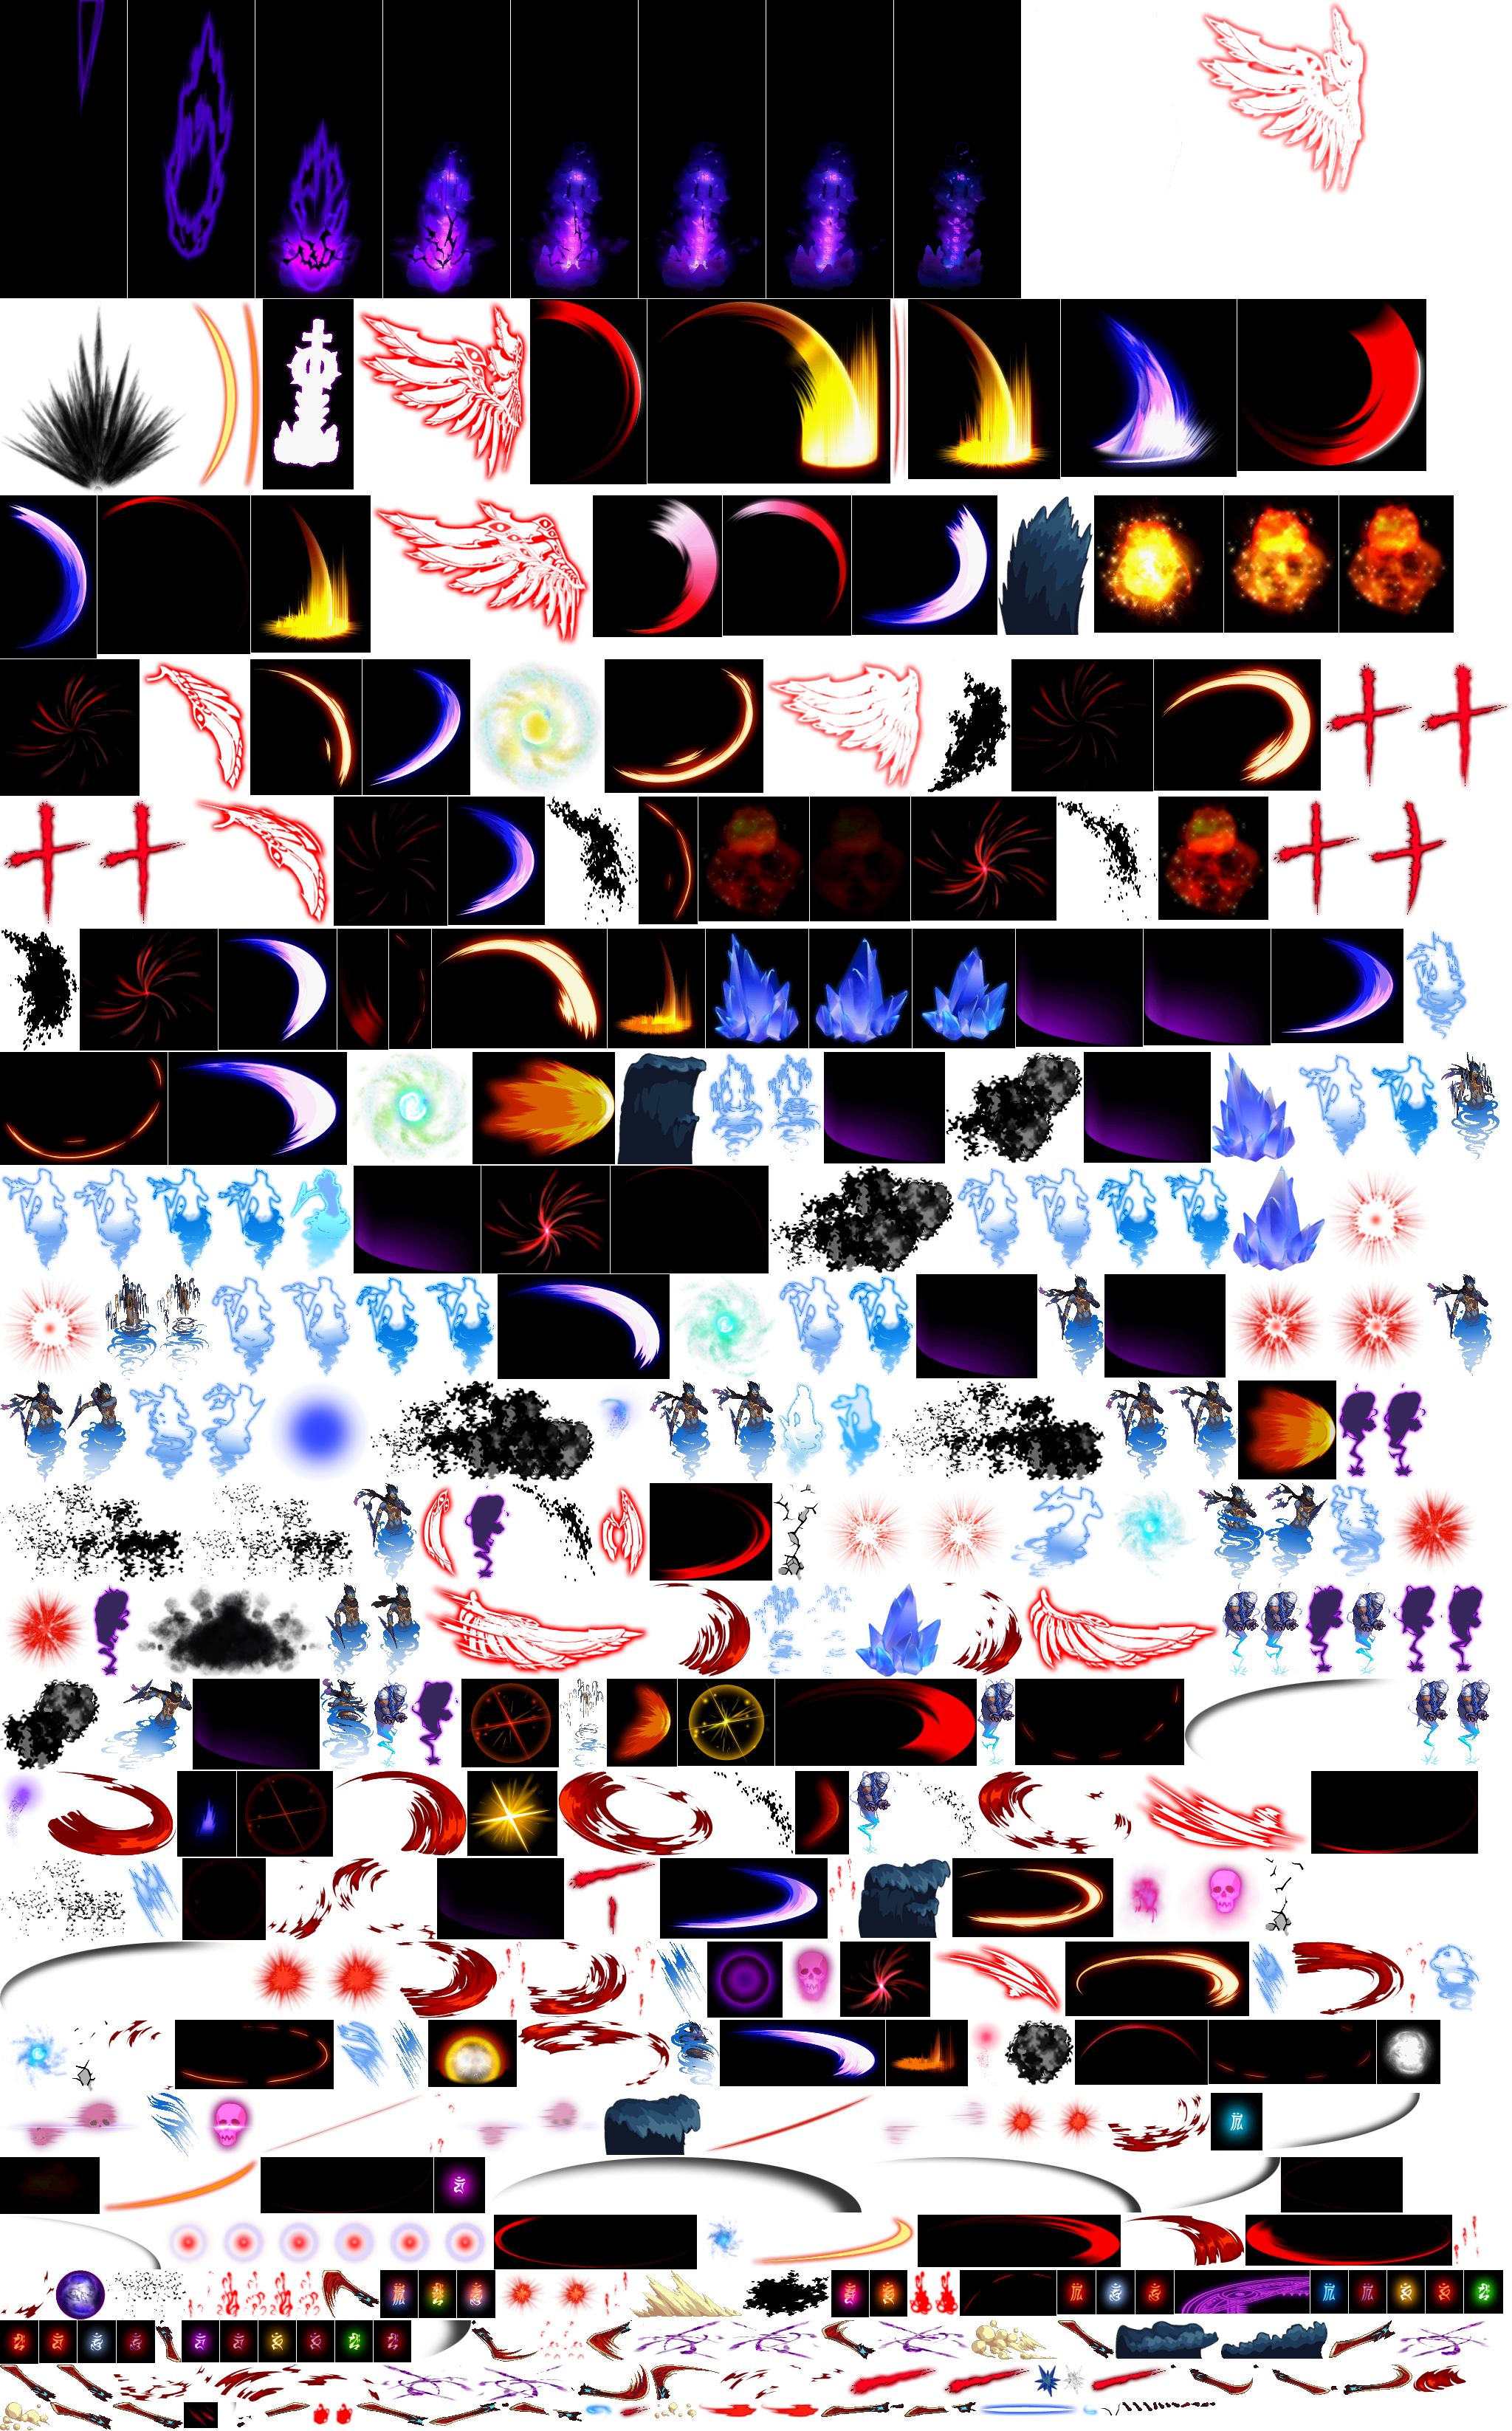
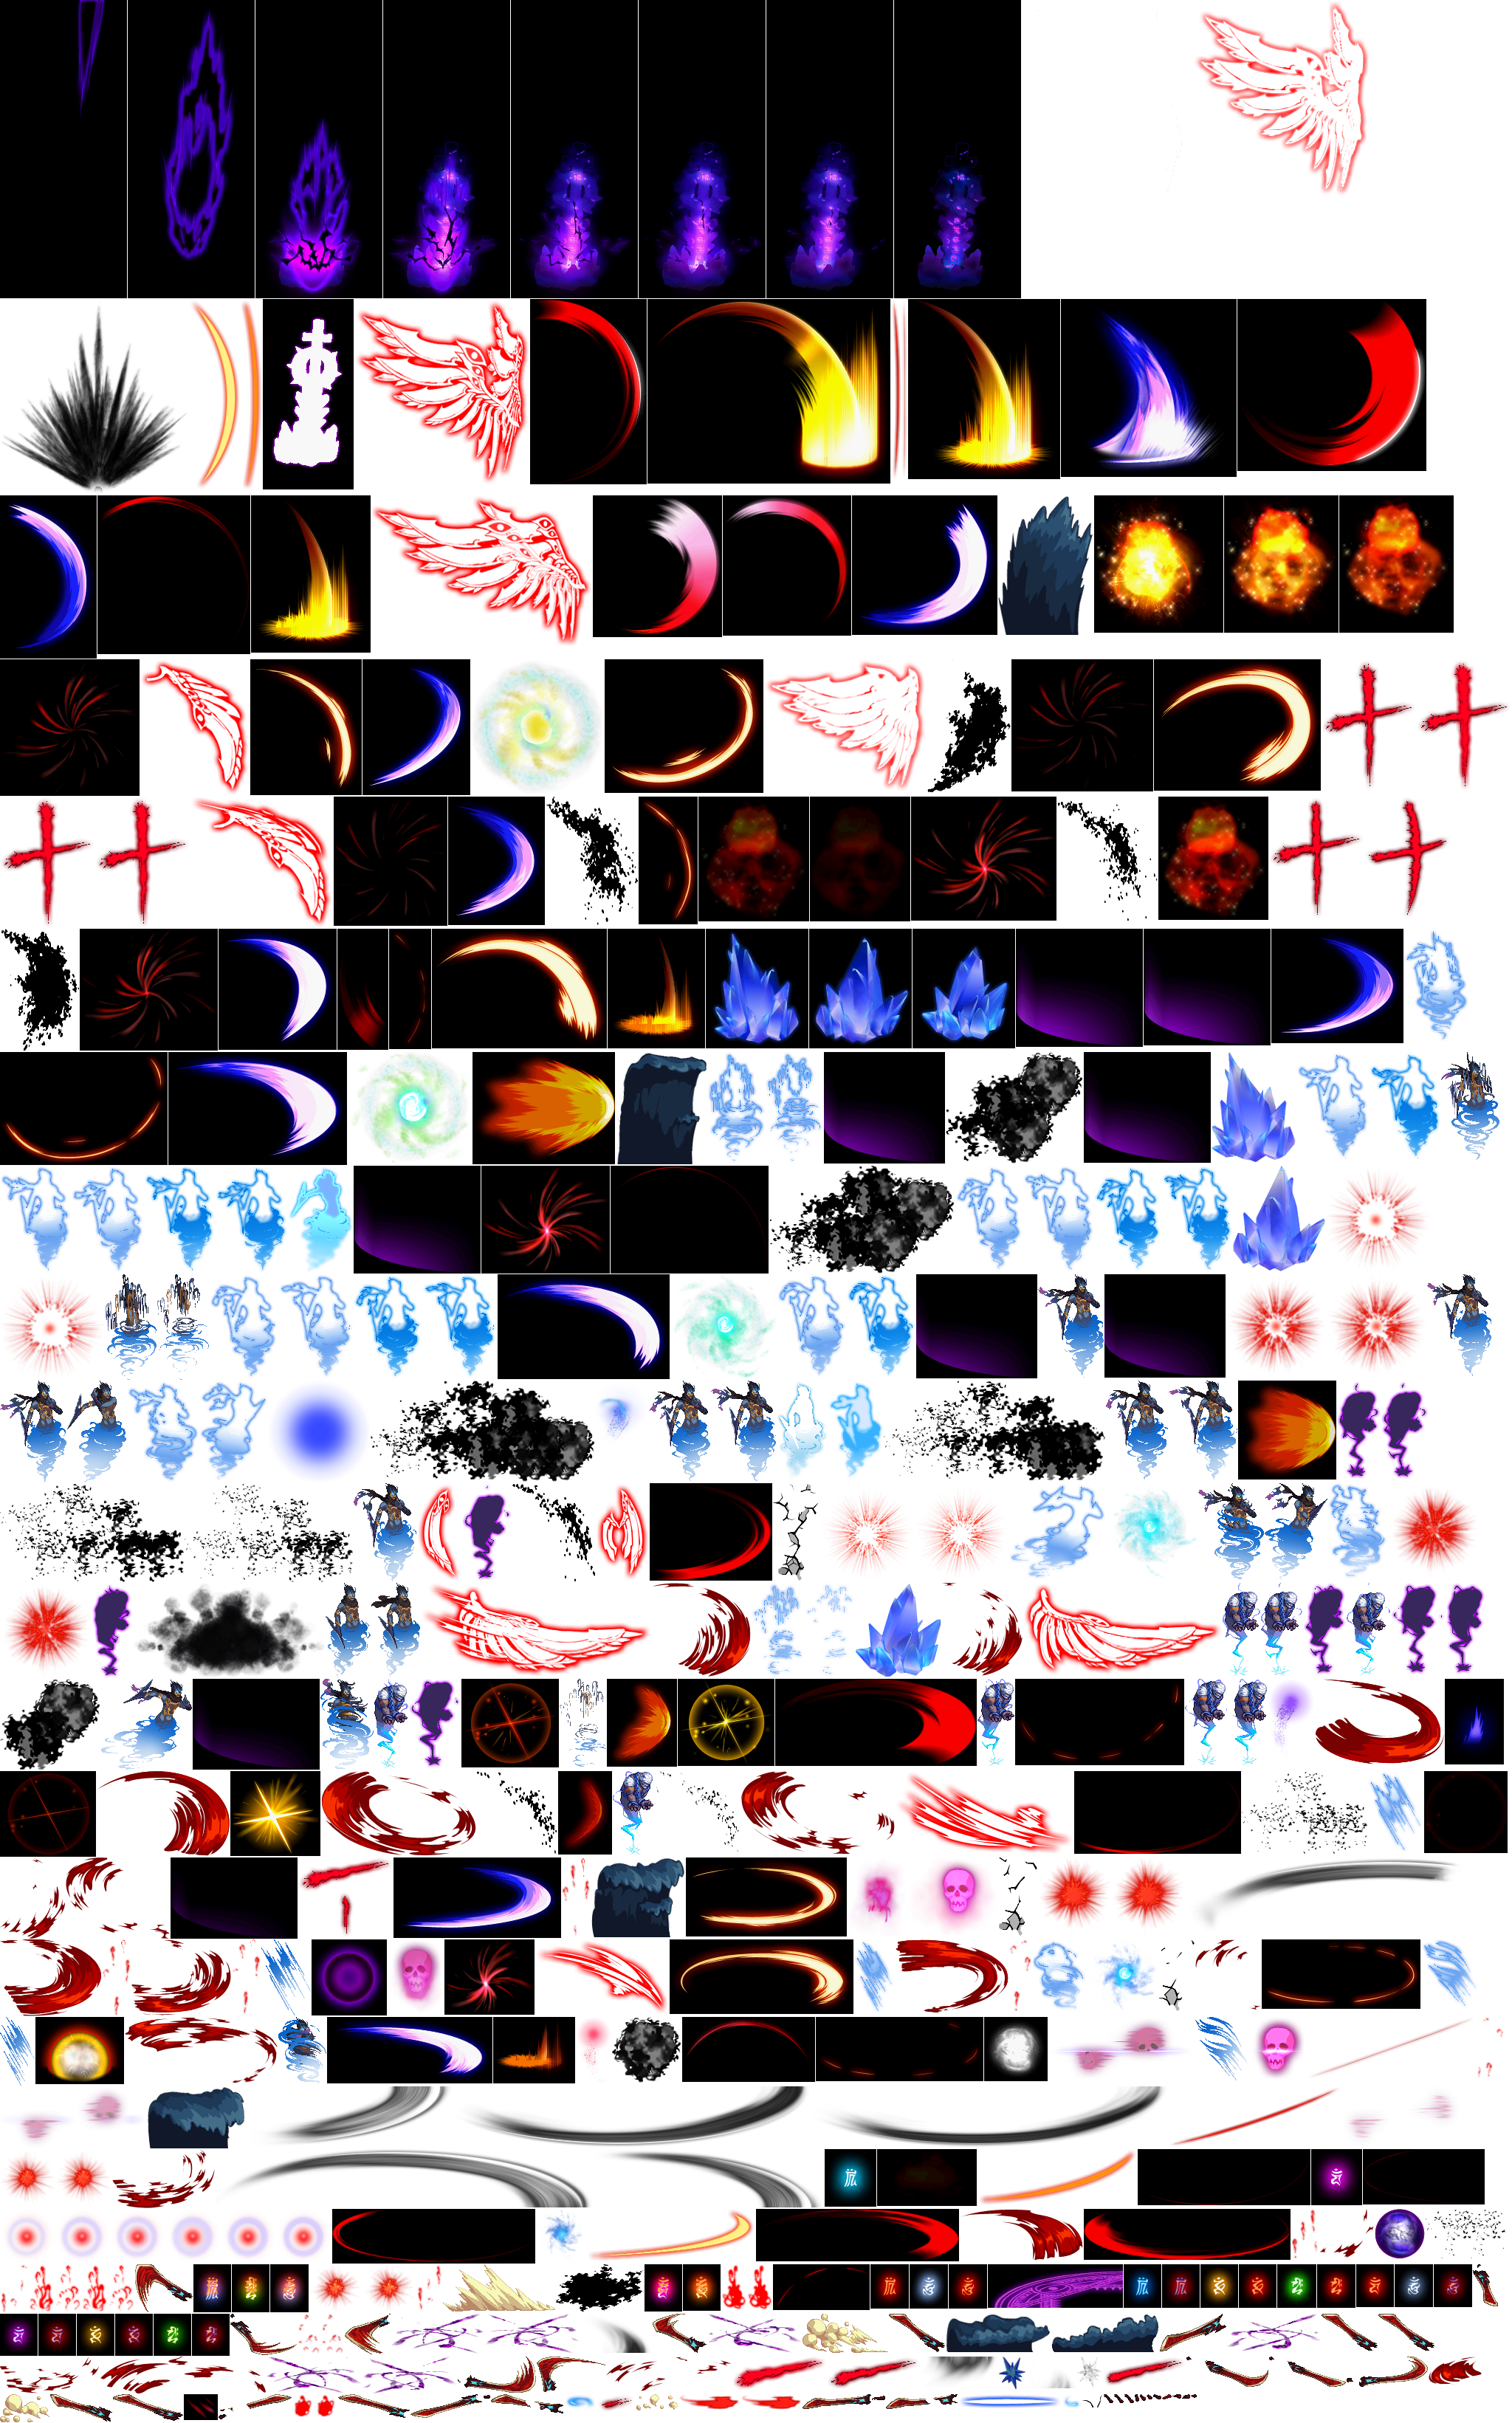
fix: use visible DOF flashcut effect assets

diff --git a/assets/skillfx.meta.js b/assets/skillfx.meta.js
@@ -1,1 +1,1 @@
-window.SKILLFX_META={"clips":{"tripleslash":[{"anchor":[-103,-126],"fps":20,"frames":[[1443,2630,249,101,0,0],[1290,2517,218,107,34,4],[237,2736,215,94,28,9],[1637,2736,227,87,16,15]]},{"anchor":[-96,-162],"fps":20,"frames":[[1563,893,226,178,7,0],[819,893,215,181,19,15],[0,1425,227,153,1,38],[1375,2274,229,117,0,74]]},{"anchor":[-84,-155],"fps":20,"frames":[[585,1258,237,162,0,0],[339,893,151,184,87,2],[865,1079,80,173,153,22],[527,1258,57,163,175,37]]}],"flashcut":[{"anchor":[0,0],"fps":16,"frames":[[1605,2274,301,117,33,163],[0,2630,335,105,33,163],[658,2922,509,75,33,163],[1168,2922,378,75,164,163],[0,3000,218,74,324,164]]},{"anchor":[0,0],"fps":16,"frames":[[1647,3254,1,1,600,0],[296,3254,24,34,518,238],[558,3143,80,56,462,238],[1547,2922,187,75,355,238],[1711,2835,212,77,330,238]]}],"gorecross":[{"anchor":[-164,-218],"fps":20,"frames":[[1649,3254,1,1,480,0],[1014,3000,228,71,34,91],[136,2922,216,76,65,97],[951,2835,235,82,70,102],[349,2835,230,84,73,109],[256,405,69,259,170,7],[326,405,29,259,212,7],[1207,405,13,246,225,14],[1221,405,8,245,230,15]]},{"anchor":[-164,-218],"fps":20,"frames":[[834,3254,52,24,248,112],[1473,3203,112,41,189,112],[1274,3203,126,45,175,112],[1146,3203,127,46,174,112],[765,2517,128,109,173,112],[1719,1079,128,166,173,63],[1790,893,128,178,173,55],[1919,893,128,178,173,56],[0,1079,128,178,173,56],[129,1079,128,178,173,56],[1848,1079,117,166,179,61]]}],"frenzy":[{"anchor":[256,0],"fps":12,"frames":[[1796,1579,142,143,3,0],[1661,1726,135,138,3,3],[1880,2009,124,129,10,10],[336,2630,99,105,22,22],[1348,2835,75,80,33,33],[672,3075,72,64,35,40],[944,3254,83,21,49,80],[1110,2009,127,131,60,13],[421,3254,30,32,116,60],[1230,3075,34,62,111,34],[292,3075,35,65,111,29],[328,3075,35,65,112,19],[730,3143,31,55,117,17]]},{"anchor":[256,0],"fps":20,"frames":[[0,1726,142,143,3,0],[1797,1726,135,138,3,3],[0,2144,124,129,10,10],[436,2630,99,105,22,22],[1424,2835,75,80,33,33],[745,3075,72,64,35,40],[1028,3254,83,21,49,80],[1238,2009,127,131,60,13],[452,3254,30,32,116,60],[1265,3075,34,62,111,34],[364,3075,35,65,111,29],[400,3075,35,65,112,19],[762,3143,31,55,117,17]]},{"anchor":[0,-232],"fps":17,"frames":[[1800,3143,90,51,124,250],[1112,3254,112,20,97,266],[483,3254,97,32,147,238],[1651,3254,1,1,500,0],[1653,3254,1,1,500,0],[1655,3254,1,1,500,0],[321,3254,99,34,210,250],[1657,3254,1,1,500,0],[881,3203,93,48,232,213],[1113,3143,73,53,165,215],[68,3254,84,37,147,235],[1578,3254,8,7,271,259],[1638,3254,8,5,263,254],[774,3203,106,49,249,241],[1586,3203,111,41,220,261],[1698,3203,104,41,220,261],[690,3254,98,26,161,214],[1225,3254,97,20,145,213],[794,3143,62,55,189,257],[436,3075,78,65,185,206],[77,3203,76,50,187,206],[77,3203,76,50,187,206]]},{"anchor":[0,-232],"fps":17,"frames":[[1659,3254,1,1,500,0],[1661,3254,1,1,500,0],[1663,3254,1,1,500,0],[1803,3203,110,41,232,263],[639,3143,90,56,203,277],[211,3143,34,57,196,276],[1665,3254,1,1,500,0],[581,3254,108,32,174,262],[1562,3254,6,10,252,266],[1569,3254,8,9,236,266],[1587,3254,11,7,236,265],[1433,3143,76,52,199,204],[153,3254,95,36,166,216],[1667,3254,1,1,500,0],[1669,3254,1,1,500,0],[1671,3254,1,1,500,0],[1613,3254,12,6,259,237],[1626,3254,11,6,245,219],[1599,3254,13,7,251,254],[1548,3254,13,12,254,256],[1548,3254,13,12,254,256],[1548,3254,13,12,254,256]]},{"anchor":[-92,-160],"fps":17,"frames":[[1519,3000,167,70,38,62],[536,2630,137,104,66,63],[714,2630,135,103,66,64],[1500,2835,139,80,61,83],[154,3203,135,50,62,113],[1914,3203,72,39,28,88],[1749,2630,153,100,91,40],[701,2736,207,90,27,40],[290,3203,224,50,7,42],[975,3203,170,47,7,46],[452,2399,180,115,48,8],[883,2144,134,127,93,8],[1276,2144,109,126,116,9],[361,2517,88,110,135,22],[0,3075,74,67,149,63],[65,2399,174,116,50,43],[756,2399,210,114,11,41],[1324,2399,209,112,12,42],[450,2517,141,110,16,43],[147,2736,89,96,17,43]]},{"anchor":[2,257],"fps":20,"frames":[[219,3000,74,74,5,0],[294,3000,74,74,5,0],[369,3000,74,74,5,0],[444,3000,74,74,5,0],[519,3000,74,74,5,0],[594,3000,74,74,5,0]]},{"anchor":[2,257],"fps":10,"frames":[[580,2835,37,84,4,7],[253,3075,38,66,2,21],[818,3075,34,64,2,20],[1968,3000,37,68,1,8],[1122,2517,39,108,1,6],[674,2630,39,104,1,4],[850,2630,39,103,2,4],[1903,2630,30,98,11,1]]}],"ghoststep":[{"anchor":[256,0],"fps":20,"frames":[[1323,3254,140,20,3,3]]},{"anchor":[256,0],"fps":20,"frames":[[364,1870,137,137,0,0]]},{"anchor":[256,0],"fps":20,"frames":[[1509,2517,79,107,68,21],[1061,2630,76,102,74,11],[1589,2517,124,107,42,0],[270,2835,78,85,72,1],[0,2835,198,86,13,1],[618,2835,198,84,13,2],[1187,2835,160,82,29,3]]},{"anchor":[256,0],"fps":20,"frames":[[532,2736,47,93,93,73],[890,2630,67,103,71,53],[199,2835,70,86,62,48],[909,2736,65,90,61,36],[434,2274,72,122,59,33],[1623,2009,89,130,40,34],[880,1870,82,136,40,35],[1498,1870,84,134,41,35],[479,2009,85,133,41,35],[1583,1870,93,134,33,35],[963,1870,88,136,35,35],[1933,1726,87,138,36,36],[1406,1726,89,140,35,35],[0,1870,90,138,34,36],[1673,3254,1,1,144,0],[1675,3254,1,1,144,0],[1677,3254,1,1,144,0],[1679,3254,1,1,144,0],[1681,3254,1,1,144,0],[1683,3254,1,1,144,0],[1685,3254,1,1,144,0],[1687,3254,1,1,144,0],[91,1870,80,138,44,33],[441,2144,61,128,64,37],[503,2144,66,128,56,40],[1713,2009,85,130,46,39],[137,2274,123,123,4,39],[1952,1425,79,146,48,24],[143,1726,69,143,59,14],[213,1726,70,143,58,12],[758,2274,63,119,57,9],[1689,3254,1,1,144,0]]},{"anchor":[256,0],"fps":20,"frames":[[1693,2630,55,101,89,69],[171,2517,75,111,67,49],[453,2736,78,94,58,44],[1934,2630,73,98,57,32],[1799,2009,80,130,55,29],[172,1870,97,138,36,30],[1294,1579,90,144,36,31],[284,1726,92,142,37,31],[1053,1726,93,141,37,31],[377,1726,101,142,29,31],[1385,1579,96,144,31,31],[0,1579,95,146,32,32],[1756,1425,97,148,31,31],[96,1579,98,146,30,32],[1482,1579,90,144,36,31],[479,1726,92,142,37,31],[1147,1726,93,141,37,31],[572,1726,101,142,29,31],[1573,1579,96,144,31,31],[195,1579,95,146,32,32],[1854,1425,97,148,31,31],[291,1579,98,146,30,32],[390,1579,88,146,40,29],[1052,1870,69,136,60,33],[1122,1870,74,136,52,36],[270,1870,93,138,42,35],[1366,2009,131,131,0,35],[1902,1258,87,154,44,20],[959,1425,77,151,55,10],[1037,1425,78,151,54,8],[1018,2144,71,127,53,5],[1090,2144,67,127,53,3]]}],"wavespin":[{"anchor":[-76,-75],"fps":12,"frames":[[958,2630,102,103,0,0],[75,3075,68,67,17,18],[1865,2736,86,87,8,7]]},{"anchor":[256,0],"fps":12,"frames":[[1591,3075,183,59,1,1]]},{"anchor":[256,0],"fps":10,"frames":[[592,2517,172,110,1,66],[261,2274,172,123,1,53],[479,1579,172,146,1,30],[1549,1258,172,158,1,18],[1116,1425,164,151,1,25],[1496,1726,164,140,1,36],[1241,1726,164,141,1,35],[1468,1425,172,150,1,26],[1376,1258,172,160,1,16]]},{"anchor":[2,257],"fps":12,"frames":[[1187,3143,128,53,8,5],[515,3203,129,50,7,6],[645,3203,128,50,6,4],[1891,3143,127,51,3,3],[857,3143,126,54,4,4],[984,3143,128,54,5,5]]}],"illusionslash":[{"anchor":[-45,-41],"fps":12,"frames":[[228,1425,242,153,18,67],[1722,1258,179,155,81,71],[975,2736,224,90,40,95],[894,2517,227,109,37,95],[296,1258,160,164,72,56],[491,893,146,184,85,59],[674,1726,233,142,0,66],[607,1079,131,174,103,68],[1154,671,197,189,15,33],[0,671,131,221,81,0]]},{"anchor":[256,0],"fps":12,"frames":[[1437,405,238,241,0,0],[240,2399,80,116,117,126]]}],"chargecrash":[{"anchor":[256,0],"fps":17,"frames":[[452,1079,154,175,22,2],[1370,893,192,179,6,12],[0,893,189,185,0,2],[108,1258,187,165,9,11],[1234,1079,197,168,0,0],[652,1579,174,146,11,10],[1138,2630,122,102,44,38],[633,2399,122,115,43,38],[918,2274,131,118,35,41],[625,2274,132,120,34,40],[321,2399,130,116,35,42],[247,2517,113,111,44,45]]},{"anchor":[256,0],"fps":12,"frames":[[640,1425,193,152,0,0],[1677,1870,133,134,61,4],[822,2274,95,119,106,17],[1077,2399,73,113,133,21]]},{"anchor":[256,0],"fps":10,"frames":[[877,405,329,250,0,0],[1230,405,206,244,145,5],[340,671,162,213,180,36],[823,1258,132,162,198,85],[1200,2736,111,90,217,155]]},{"anchor":[256,0],"fps":17,"frames":[[249,3254,46,35,12,152],[803,671,175,192,17,10],[979,671,174,190,18,0],[1456,2736,180,88,3,1],[1300,3075,131,62,0,3]]},{"anchor":[256,0],"fps":12,"frames":[[853,3075,152,64,4,8],[1316,3143,116,53,36,20],[0,3254,67,38,56,24],[887,3254,56,22,53,28]]}],"waveeye":[{"anchor":[256,0],"fps":20,"frames":[[807,2009,72,132,254,140],[1035,893,219,180,78,109],[1384,0,232,272,68,5],[1617,0,238,266,62,13],[480,405,237,252,60,27],[503,671,299,206,0,74],[1261,2630,181,102,201,135],[258,1079,193,178,254,166],[190,893,148,185,286,177]]},{"anchor":[256,0],"fps":20,"frames":[[565,2009,60,133,232,145],[1691,3254,1,1,529,0],[1693,3254,1,1,529,0],[1695,3254,1,1,529,0],[1697,3254,1,1,529,0],[1699,3254,1,1,529,0],[1534,2399,241,112,79,131],[570,2144,312,128,208,171],[1386,2144,269,126,257,174]]},{"anchor":[-123,-205],"fps":20,"frames":[[1050,2274,273,118,14,84],[880,2009,166,132,121,84],[1776,2399,226,112,61,103],[353,2922,234,76,52,140],[1243,3000,275,71,5,103],[1687,3000,280,69,0,114],[669,3000,275,74,0,110],[1735,2922,165,75,0,108],[457,1258,69,164,34,62],[1676,405,256,233,37,26],[718,405,158,251,134,1],[132,671,207,215,79,1],[827,1579,214,146,71,0]]}],"saya":[{"anchor":[0,0],"fps":16,"frames":[[1438,3203,34,43,59,27]]},{"anchor":[0,0],"fps":16,"frames":[[1401,3203,36,44,58,26]]}],"epidemic":[{"anchor":[0,0],"fps":16,"frames":[[1656,2144,51,126,80,47],[1708,2144,56,126,78,47],[1824,2144,59,125,75,47],[1151,2399,62,113,73,59],[1907,2274,55,117,72,56],[1963,2274,55,117,72,55],[1324,2274,50,118,78,54],[507,2274,46,121,83,51]]},{"anchor":[0,0],"fps":16,"frames":[[1811,1870,59,134,66,43],[1871,1870,64,134,63,43],[626,2009,67,133,62,43],[554,2274,70,121,61,55],[1884,2144,63,125,68,52],[1948,2144,63,125,68,51],[1765,2144,58,126,68,50],[125,2144,54,129,67,47]]}],"tombstone":[{"anchor":[0,0],"fps":16,"frames":[[0,0,172,404,0,0],[173,0,172,404,0,0],[346,0,172,404,0,0],[519,0,172,404,0,0],[692,0,172,404,0,0],[865,0,172,404,0,0],[1038,0,172,404,0,0],[1211,0,172,404,0,0],[356,405,123,258,0,0]]},{"anchor":[0,0],"fps":16,"frames":[[1491,3254,28,19,15,92],[98,2736,48,97,15,21],[1714,2517,52,106,11,12],[1047,2009,62,132,4,0]]},{"anchor":[0,0],"fps":16,"frames":[[0,405,255,265,55,24],[180,2144,260,129,58,213]]}],"icewave":[{"anchor":[0,0],"fps":16,"frames":[[1641,1425,114,149,12,6],[1670,1579,125,144,9,12],[1158,2144,117,127,12,24]]},{"anchor":[0,0],"fps":16,"frames":[[956,1258,139,162,0,0],[1096,1258,139,162,0,0],[1236,1258,139,162,0,0]]}],"firewave":[{"anchor":[0,0],"fps":16,"frames":[[1361,2736,94,89,4,65],[0,2274,136,124,4,29],[1281,1425,186,151,14,3],[1042,1579,251,146,14,8],[502,1870,304,137,17,18],[1197,1870,300,136,17,18],[0,2009,249,134,59,18],[250,2009,228,134,80,18],[0,2517,170,112,138,38],[144,3075,108,67,200,81]]},{"anchor":[0,0],"fps":16,"frames":[[580,2736,120,91,40,62],[1482,671,175,186,23,1],[1658,671,155,186,22,7],[1814,671,155,186,22,4],[1569,1079,149,167,24,2],[946,1079,150,169,23,1],[1097,1079,136,169,33,0],[0,2922,135,77,31,10]]},{"anchor":[0,0],"fps":16,"frames":[[1006,3075,119,64,4,163],[1255,893,114,180,93,31],[0,1258,107,166,115,27],[739,1079,125,174,109,5],[1432,1079,136,168,101,2],[694,2009,112,133,101,9],[967,2399,109,114,101,10],[1214,2399,109,113,100,9]]}],"wavemark":[{"anchor":[0,0],"fps":16,"frames":[[1640,2835,70,78,0,0],[1775,3075,51,59,10,9],[1827,3075,51,59,10,9],[1432,3075,52,60,9,9],[515,3075,51,65,10,3],[588,2922,69,76,0,1],[246,3143,51,57,9,10],[298,3143,51,57,9,10],[53,3143,51,58,9,10],[1126,3075,51,64,9,3],[1879,3075,51,59,9,9],[350,3143,51,57,9,10],[402,3143,51,57,9,10],[1931,3075,51,59,9,9],[1178,3075,51,63,9,4],[1983,3075,53,59,8,10],[454,3143,51,57,9,11],[506,3143,51,57,9,11],[0,3143,52,59,9,10],[567,3075,51,65,9,3],[1485,3075,52,60,9,9],[105,3143,52,58,9,10],[158,3143,52,58,9,10],[1538,3075,52,60,9,9],[619,3075,52,65,9,3]]},{"anchor":[0,0],"fps":16,"frames":[[638,893,180,182,2,1],[471,1425,168,153,3,20],[908,1726,144,142,17,26],[1498,2009,124,131,30,35],[0,2736,97,98,38,48],[945,3000,68,72,56,64],[1312,2736,48,90,63,63],[0,2399,64,117,62,27],[807,1870,72,137,62,5],[789,3254,44,25,64,24],[1464,3254,26,20,67,24]]}],"wavemurderous":[{"anchor":[0,0],"fps":16,"frames":[[1352,671,129,189,5,1],[834,1425,124,152,11,37],[1162,2517,127,108,15,81],[817,2835,133,84,16,105],[1510,3143,142,52,19,138],[1653,3143,146,52,17,138]]}]}};
+window.SKILLFX_META={"clips":{"tripleslash":[{"anchor":[-103,-126],"fps":20,"frames":[[907,2627,249,101,0,0],[929,2516,218,107,34,4],[1709,2627,215,94,28,9],[1105,2732,227,87,16,15]]},{"anchor":[-96,-162],"fps":20,"frames":[[1563,893,226,178,7,0],[819,893,215,181,19,15],[0,1425,227,153,1,38],[1375,2274,229,117,0,74]]},{"anchor":[-84,-155],"fps":20,"frames":[[585,1258,237,162,0,0],[339,893,151,184,87,2],[865,1079,80,173,153,22],[527,1258,57,163,175,37]]}],"flashcut":[{"anchor":[0,0],"fps":16,"frames":[[1606,2516,385,104,16,157],[292,2911,511,79,45,159],[804,2911,312,79,247,159],[786,3134,97,53,449,185],[1390,3192,68,43,478,195]]},{"anchor":[0,0],"fps":16,"frames":[[1622,3243,1,1,600,0],[1247,3192,105,44,451,238],[333,2826,280,82,279,238],[614,2826,483,82,63,238],[1098,2826,483,82,63,238]]}],"gorecross":[{"anchor":[-164,-218],"fps":20,"frames":[[1624,3243,1,1,480,0],[795,2992,228,71,34,91],[1324,2911,216,76,65,97],[1582,2826,235,82,70,102],[1769,2732,230,84,73,109],[256,405,69,259,170,7],[326,405,29,259,212,7],[1207,405,13,246,225,14],[1221,405,8,245,230,15]]},{"anchor":[-164,-218],"fps":20,"frames":[[809,3243,52,24,248,112],[1494,3192,112,41,189,112],[1120,3192,126,45,175,112],[992,3192,127,46,174,112],[404,2516,128,109,173,112],[1719,1079,128,166,173,63],[1790,893,128,178,173,55],[1919,893,128,178,173,56],[0,1079,128,178,173,56],[129,1079,128,178,173,56],[1848,1079,117,166,179,61]]}],"frenzy":[{"anchor":[256,0],"fps":12,"frames":[[1796,1579,142,143,3,0],[1661,1726,135,138,3,3],[1880,2009,124,129,10,10],[1406,2516,99,105,22,22],[0,2911,75,80,33,33],[419,3067,72,64,35,40],[919,3243,83,21,49,80],[1110,2009,127,131,60,13],[396,3243,30,32,116,60],[977,3067,34,62,111,34],[39,3067,35,65,111,29],[75,3067,35,65,112,19],[403,3134,31,55,117,17]]},{"anchor":[256,0],"fps":20,"frames":[[0,1726,142,143,3,0],[1797,1726,135,138,3,3],[0,2144,124,129,10,10],[1506,2516,99,105,22,22],[76,2911,75,80,33,33],[492,3067,72,64,35,40],[1003,3243,83,21,49,80],[1238,2009,127,131,60,13],[427,3243,30,32,116,60],[1012,3067,34,62,111,34],[111,3067,35,65,111,29],[147,3067,35,65,112,19],[435,3134,31,55,117,17]]},{"anchor":[0,-232],"fps":17,"frames":[[1571,3134,90,51,124,250],[1087,3243,112,20,97,266],[458,3243,97,32,147,238],[1626,3243,1,1,500,0],[1628,3243,1,1,500,0],[1630,3243,1,1,500,0],[296,3243,99,34,210,250],[1632,3243,1,1,500,0],[727,3192,93,48,232,213],[884,3134,73,53,165,215],[68,3243,84,37,147,235],[1553,3243,8,7,271,259],[1613,3243,8,5,263,254],[620,3192,106,49,249,241],[1607,3192,111,41,220,261],[1719,3192,104,41,220,261],[665,3243,98,26,161,214],[1200,3243,97,20,145,213],[467,3134,62,55,189,257],[183,3067,78,65,185,206],[1867,3134,76,50,187,206],[1867,3134,76,50,187,206]]},{"anchor":[0,-232],"fps":17,"frames":[[1634,3243,1,1,500,0],[1636,3243,1,1,500,0],[1638,3243,1,1,500,0],[1824,3192,110,41,232,263],[312,3134,90,56,203,277],[1995,3067,34,57,196,276],[1640,3243,1,1,500,0],[556,3243,108,32,174,262],[1537,3243,6,10,252,266],[1544,3243,8,9,236,266],[1562,3243,11,7,236,265],[1204,3134,76,52,199,204],[153,3243,95,36,166,216],[1642,3243,1,1,500,0],[1644,3243,1,1,500,0],[1646,3243,1,1,500,0],[1588,3243,12,6,259,237],[1601,3243,11,6,245,219],[1574,3243,13,7,251,254],[1523,3243,13,12,254,256],[1523,3243,13,12,254,256],[1523,3243,13,12,254,256]]},{"anchor":[-92,-160],"fps":17,"frames":[[1300,2992,167,70,38,62],[0,2627,137,104,66,63],[178,2627,135,103,66,64],[152,2911,139,80,61,83],[0,3192,135,50,62,113],[1935,3192,72,39,28,88],[1213,2627,153,100,91,40],[169,2732,207,90,27,40],[136,3192,224,50,7,42],[821,3192,170,47,7,46],[131,2399,180,115,48,8],[883,2144,134,127,93,8],[1276,2144,109,126,116,9],[0,2516,88,110,135,22],[1787,2992,74,67,149,63],[1782,2274,174,116,50,43],[435,2399,210,114,11,41],[1003,2399,209,112,12,42],[89,2516,141,110,16,43],[1619,2627,89,96,17,43]]},{"anchor":[2,257],"fps":20,"frames":[[0,2992,74,74,5,0],[75,2992,74,74,5,0],[150,2992,74,74,5,0],[225,2992,74,74,5,0],[300,2992,74,74,5,0],[375,2992,74,74,5,0]]},{"anchor":[2,257],"fps":10,"frames":[[2000,2732,37,84,4,7],[0,3067,38,66,2,21],[565,3067,34,64,2,20],[1749,2992,37,68,1,8],[761,2516,39,108,1,6],[138,2627,39,104,1,4],[314,2627,39,103,2,4],[1367,2627,30,98,11,1]]}],"ghoststep":[{"anchor":[256,0],"fps":20,"frames":[[1298,3243,140,20,3,3]]},{"anchor":[256,0],"fps":20,"frames":[[364,1870,137,137,0,0]]},{"anchor":[256,0],"fps":20,"frames":[[1148,2516,79,107,68,21],[525,2627,76,102,74,11],[1228,2516,124,107,42,0],[1690,2732,78,85,72,1],[1420,2732,198,86,13,1],[0,2826,198,84,13,2],[1818,2826,160,82,29,3]]},{"anchor":[256,0],"fps":20,"frames":[[0,2732,47,93,93,73],[354,2627,67,103,71,53],[1619,2732,70,86,62,48],[377,2732,65,90,61,36],[434,2274,72,122,59,33],[1623,2009,89,130,40,34],[880,1870,82,136,40,35],[1498,1870,84,134,41,35],[479,2009,85,133,41,35],[1583,1870,93,134,33,35],[963,1870,88,136,35,35],[1933,1726,87,138,36,36],[1406,1726,89,140,35,35],[0,1870,90,138,34,36],[1648,3243,1,1,144,0],[1650,3243,1,1,144,0],[1652,3243,1,1,144,0],[1654,3243,1,1,144,0],[1656,3243,1,1,144,0],[1658,3243,1,1,144,0],[1660,3243,1,1,144,0],[1662,3243,1,1,144,0],[91,1870,80,138,44,33],[441,2144,61,128,64,37],[503,2144,66,128,56,40],[1713,2009,85,130,46,39],[137,2274,123,123,4,39],[1952,1425,79,146,48,24],[143,1726,69,143,59,14],[213,1726,70,143,58,12],[758,2274,63,119,57,9],[1664,3243,1,1,144,0]]},{"anchor":[256,0],"fps":20,"frames":[[1157,2627,55,101,89,69],[1853,2399,75,111,67,49],[1925,2627,78,94,58,44],[1398,2627,73,98,57,32],[1799,2009,80,130,55,29],[172,1870,97,138,36,30],[1294,1579,90,144,36,31],[284,1726,92,142,37,31],[1053,1726,93,141,37,31],[377,1726,101,142,29,31],[1385,1579,96,144,31,31],[0,1579,95,146,32,32],[1756,1425,97,148,31,31],[96,1579,98,146,30,32],[1482,1579,90,144,36,31],[479,1726,92,142,37,31],[1147,1726,93,141,37,31],[572,1726,101,142,29,31],[1573,1579,96,144,31,31],[195,1579,95,146,32,32],[1854,1425,97,148,31,31],[291,1579,98,146,30,32],[390,1579,88,146,40,29],[1052,1870,69,136,60,33],[1122,1870,74,136,52,36],[270,1870,93,138,42,35],[1366,2009,131,131,0,35],[1902,1258,87,154,44,20],[959,1425,77,151,55,10],[1037,1425,78,151,54,8],[1018,2144,71,127,53,5],[1090,2144,67,127,53,3]]}],"wavespin":[{"anchor":[-76,-75],"fps":12,"frames":[[422,2627,102,103,0,0],[1862,2992,68,67,17,18],[1333,2732,86,87,8,7]]},{"anchor":[256,0],"fps":12,"frames":[[1338,3067,183,59,1,1]]},{"anchor":[256,0],"fps":10,"frames":[[231,2516,172,110,1,66],[261,2274,172,123,1,53],[479,1579,172,146,1,30],[1549,1258,172,158,1,18],[1116,1425,164,151,1,25],[1496,1726,164,140,1,36],[1241,1726,164,141,1,35],[1468,1425,172,150,1,26],[1376,1258,172,160,1,16]]},{"anchor":[2,257],"fps":12,"frames":[[958,3134,128,53,8,5],[361,3192,129,50,7,6],[491,3192,128,50,6,4],[1662,3134,127,51,3,3],[530,3134,126,54,4,4],[657,3134,128,54,5,5]]}],"illusionslash":[{"anchor":[-45,-41],"fps":12,"frames":[[228,1425,242,153,18,67],[1722,1258,179,155,81,71],[443,2732,224,90,40,95],[533,2516,227,109,37,95],[296,1258,160,164,72,56],[491,893,146,184,85,59],[674,1726,233,142,0,66],[607,1079,131,174,103,68],[1154,671,197,189,15,33],[0,671,131,221,81,0]]},{"anchor":[256,0],"fps":12,"frames":[[1437,405,238,241,0,0],[1957,2274,80,116,117,126]]}],"chargecrash":[{"anchor":[256,0],"fps":17,"frames":[[452,1079,154,175,22,2],[1370,893,192,179,6,12],[0,893,189,185,0,2],[108,1258,187,165,9,11],[1234,1079,197,168,0,0],[652,1579,174,146,11,10],[602,2627,122,102,44,38],[312,2399,122,115,43,38],[918,2274,131,118,35,41],[625,2274,132,120,34,40],[0,2399,130,116,35,42],[1929,2399,113,111,44,45]]},{"anchor":[256,0],"fps":12,"frames":[[640,1425,193,152,0,0],[1677,1870,133,134,61,4],[822,2274,95,119,106,17],[756,2399,73,113,133,21]]},{"anchor":[256,0],"fps":10,"frames":[[877,405,329,250,0,0],[1230,405,206,244,145,5],[340,671,162,213,180,36],[823,1258,132,162,198,85],[668,2732,111,90,217,155]]},{"anchor":[256,0],"fps":17,"frames":[[249,3243,46,35,12,152],[803,671,175,192,17,10],[979,671,174,190,18,0],[924,2732,180,88,3,1],[1047,3067,131,62,0,3]]},{"anchor":[256,0],"fps":12,"frames":[[600,3067,152,64,4,8],[1087,3134,116,53,36,20],[0,3243,67,38,56,24],[862,3243,56,22,53,28]]}],"waveeye":[{"anchor":[256,0],"fps":20,"frames":[[807,2009,72,132,254,140],[1035,893,219,180,78,109],[1384,0,232,272,68,5],[1617,0,238,266,62,13],[480,405,237,252,60,27],[503,671,299,206,0,74],[725,2627,181,102,201,135],[258,1079,193,178,254,166],[190,893,148,185,286,177]]},{"anchor":[256,0],"fps":20,"frames":[[565,2009,60,133,232,145],[1666,3243,1,1,529,0],[1668,3243,1,1,529,0],[1670,3243,1,1,529,0],[1672,3243,1,1,529,0],[1674,3243,1,1,529,0],[1213,2399,241,112,79,131],[570,2144,312,128,208,171],[1386,2144,269,126,257,174]]},{"anchor":[-123,-205],"fps":20,"frames":[[1050,2274,273,118,14,84],[880,2009,166,132,121,84],[1455,2399,226,112,61,103],[1541,2911,234,76,52,140],[1024,2992,275,71,5,103],[1468,2992,280,69,0,114],[450,2992,275,74,0,110],[1846,2911,165,75,0,108],[457,1258,69,164,34,62],[1676,405,256,233,37,26],[718,405,158,251,134,1],[132,671,207,215,79,1],[827,1579,214,146,71,0]]}],"saya":[{"anchor":[0,0],"fps":16,"frames":[[1459,3192,34,43,59,27]]},{"anchor":[0,0],"fps":16,"frames":[[1353,3192,36,44,58,26]]}],"epidemic":[{"anchor":[0,0],"fps":16,"frames":[[1656,2144,51,126,80,47],[1708,2144,56,126,78,47],[1824,2144,59,125,75,47],[830,2399,62,113,73,59],[1605,2274,55,117,72,56],[1661,2274,55,117,72,55],[1324,2274,50,118,78,54],[507,2274,46,121,83,51]]},{"anchor":[0,0],"fps":16,"frames":[[1811,1870,59,134,66,43],[1871,1870,64,134,63,43],[626,2009,67,133,62,43],[554,2274,70,121,61,55],[1884,2144,63,125,68,52],[1948,2144,63,125,68,51],[1765,2144,58,126,68,50],[125,2144,54,129,67,47]]}],"tombstone":[{"anchor":[0,0],"fps":16,"frames":[[0,0,172,404,0,0],[173,0,172,404,0,0],[346,0,172,404,0,0],[519,0,172,404,0,0],[692,0,172,404,0,0],[865,0,172,404,0,0],[1038,0,172,404,0,0],[1211,0,172,404,0,0],[356,405,123,258,0,0]]},{"anchor":[0,0],"fps":16,"frames":[[1466,3243,28,19,15,92],[1570,2627,48,97,15,21],[1353,2516,52,106,11,12],[1047,2009,62,132,4,0]]},{"anchor":[0,0],"fps":16,"frames":[[0,405,255,265,55,24],[180,2144,260,129,58,213]]}],"icewave":[{"anchor":[0,0],"fps":16,"frames":[[1641,1425,114,149,12,6],[1670,1579,125,144,9,12],[1158,2144,117,127,12,24]]},{"anchor":[0,0],"fps":16,"frames":[[956,1258,139,162,0,0],[1096,1258,139,162,0,0],[1236,1258,139,162,0,0]]}],"firewave":[{"anchor":[0,0],"fps":16,"frames":[[829,2732,94,89,4,65],[0,2274,136,124,4,29],[1281,1425,186,151,14,3],[1042,1579,251,146,14,8],[502,1870,304,137,17,18],[1197,1870,300,136,17,18],[0,2009,249,134,59,18],[250,2009,228,134,80,18],[1682,2399,170,112,138,38],[1931,2992,108,67,200,81]]},{"anchor":[0,0],"fps":16,"frames":[[48,2732,120,91,40,62],[1482,671,175,186,23,1],[1658,671,155,186,22,7],[1814,671,155,186,22,4],[1569,1079,149,167,24,2],[946,1079,150,169,23,1],[1097,1079,136,169,33,0],[1188,2911,135,77,31,10]]},{"anchor":[0,0],"fps":16,"frames":[[753,3067,119,64,4,163],[1255,893,114,180,93,31],[0,1258,107,166,115,27],[739,1079,125,174,109,5],[1432,1079,136,168,101,2],[694,2009,112,133,101,9],[646,2399,109,114,101,10],[893,2399,109,113,100,9]]}],"wavemark":[{"anchor":[0,0],"fps":16,"frames":[[1117,2911,70,78,0,0],[1522,3067,51,59,10,9],[1574,3067,51,59,10,9],[1179,3067,52,60,9,9],[262,3067,51,65,10,3],[1776,2911,69,76,0,1],[0,3134,51,57,9,10],[52,3134,51,57,9,10],[1837,3067,51,58,9,10],[873,3067,51,64,9,3],[1626,3067,51,59,9,9],[104,3134,51,57,9,10],[156,3134,51,57,9,10],[1678,3067,51,59,9,9],[925,3067,51,63,9,4],[1730,3067,53,59,8,10],[208,3134,51,57,9,11],[260,3134,51,57,9,11],[1784,3067,52,59,9,10],[314,3067,51,65,9,3],[1232,3067,52,60,9,9],[1889,3067,52,58,9,10],[1942,3067,52,58,9,10],[1285,3067,52,60,9,9],[366,3067,52,65,9,3]]},{"anchor":[0,0],"fps":16,"frames":[[638,893,180,182,2,1],[471,1425,168,153,3,20],[908,1726,144,142,17,26],[1498,2009,124,131,30,35],[1472,2627,97,98,38,48],[726,2992,68,72,56,64],[780,2732,48,90,63,63],[1717,2274,64,117,62,27],[807,1870,72,137,62,5],[764,3243,44,25,64,24],[1439,3243,26,20,67,24]]}],"wavemurderous":[{"anchor":[0,0],"fps":16,"frames":[[1352,671,129,189,5,1],[834,1425,124,152,11,37],[801,2516,127,108,15,81],[199,2826,133,84,16,105],[1281,3134,142,52,19,138],[1424,3134,146,52,17,138]]}]}};

diff --git a/tests/test_skillfx_config.py b/tests/test_skillfx_config.py
@@ -28,8 +28,8 @@ class SkillFxConfigTests(unittest.TestCase):
     def test_flashcut_uses_dof70_momentaryslash_assets(self):
         spec = cfg.SKILL_SPECS["flashcut"]
         self.assertEqual(spec.prefer_npk, "momentaryslash")
-        self.assertIn("drawingsword_none_under.img", spec.images)
-        self.assertIn("drawingsword_none_upper.img", spec.images)
+        self.assertIn("drawingsword_white_ldodge_under.img", spec.images)
+        self.assertIn("drawingsword_white_ldodge_upper.img", spec.images)
 
 
 if __name__ == "__main__":

diff --git a/tools/skillfx_config.py b/tools/skillfx_config.py
@@ -34,7 +34,7 @@ SKILL_SPECS = {
     ),
     "flashcut": SkillSpec(
         "momentaryslash",
-        images=("drawingsword_none_under.img", "drawingsword_none_upper.img"),
+        images=("drawingsword_white_ldodge_under.img", "drawingsword_white_ldodge_upper.img"),
     ),
     "gorecross": SkillSpec(
         "gorecross",